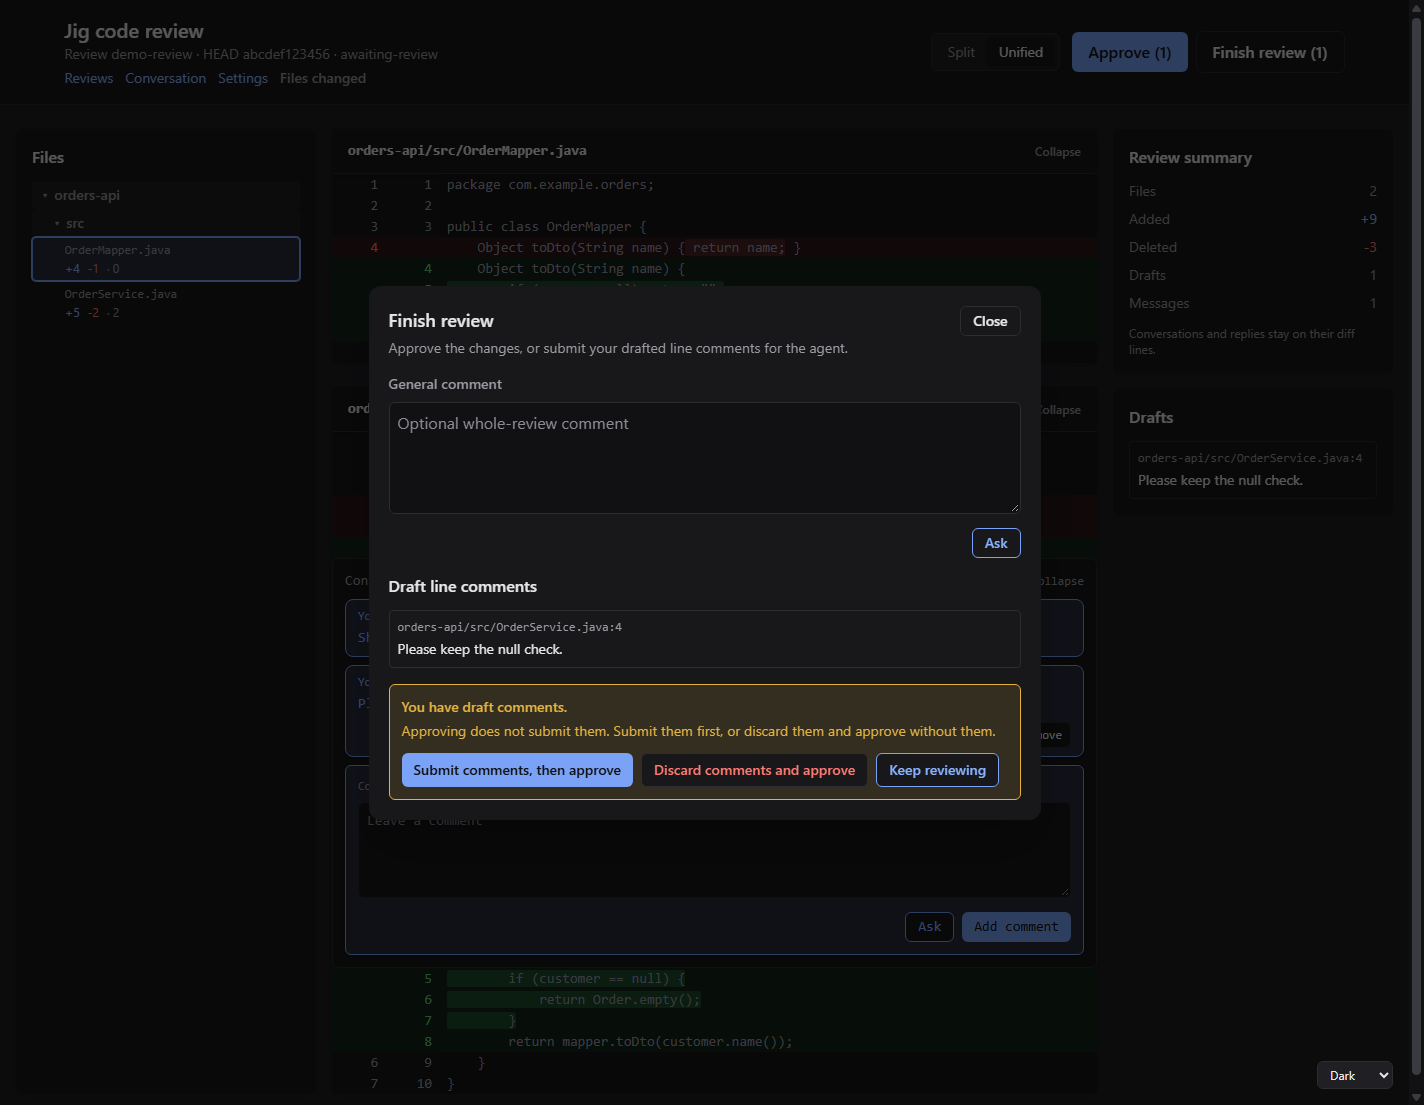
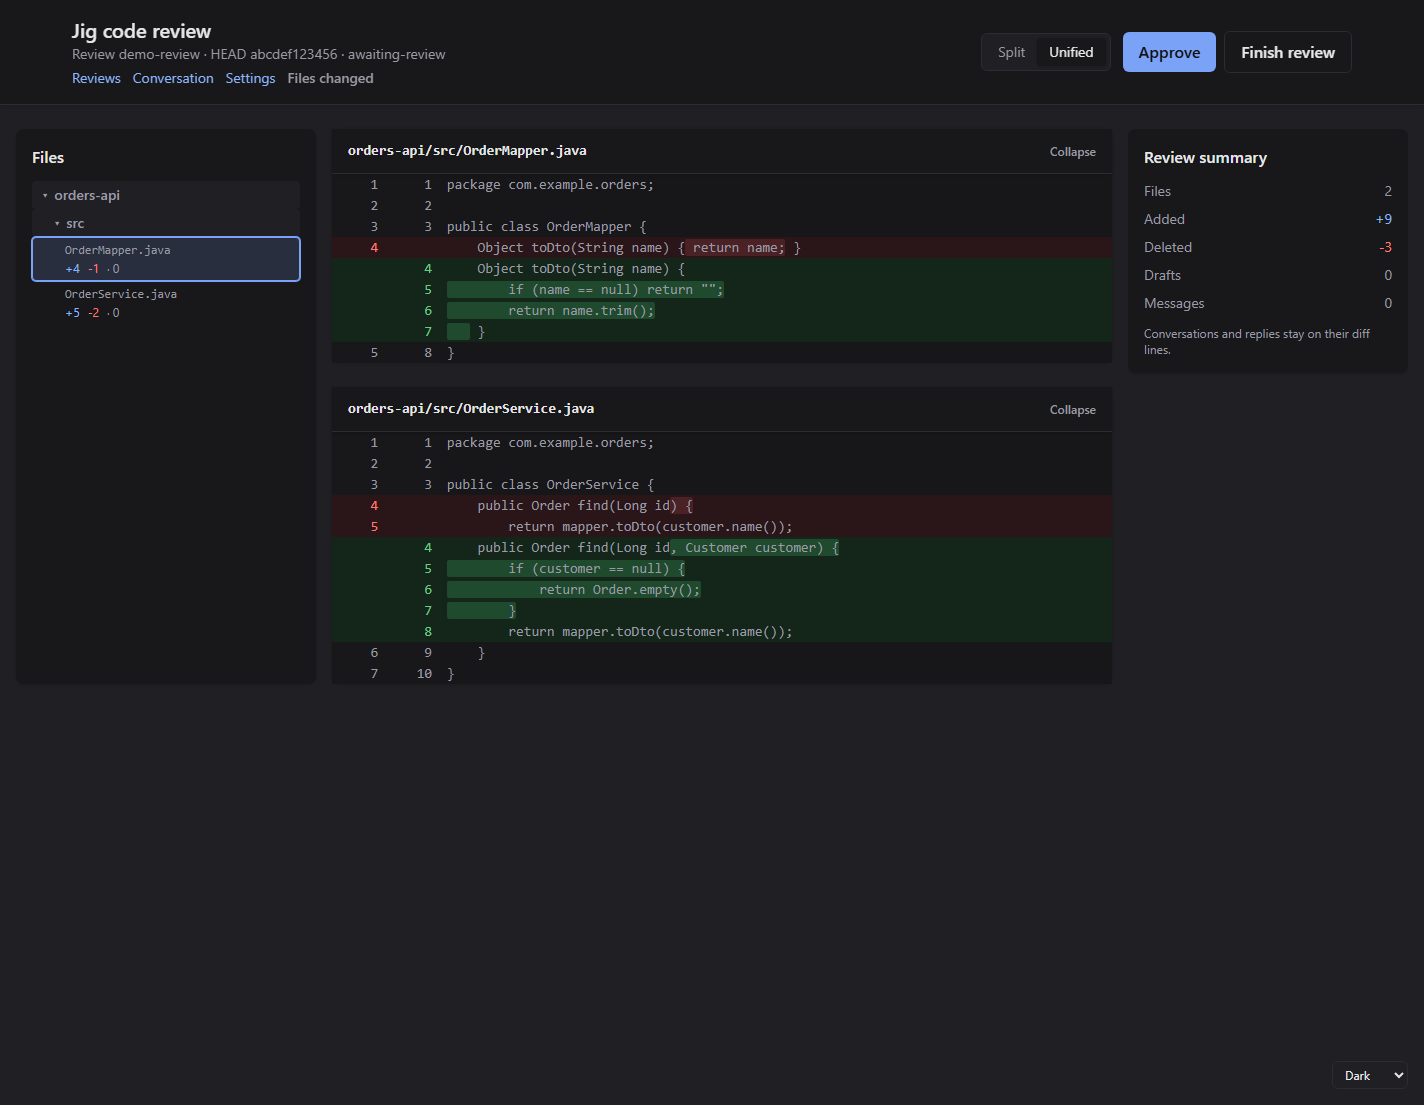
readme: show the clean dark review page with Approve in the header
Render the final page from the dark-mode branch with example diffs and no modal; the caption now describes what the
picture shows.

diff --git a/README.md b/README.md
@@ -29,9 +29,9 @@ sees it. The same rules govern `bash`, pull requests, Jira, databases, APIs, CI 
 - **Browser pages have one palette.** A graphite dark theme and a light one, following the system or a saved choice;
   [Browser theme](docs/browser-theme.md) has the tokens and the contrast numbers.
 
-![A dark browser code review with two Java diff files, a review summary and Approve in the header; example data](docs/img/review-dark.png)
+![A dark browser code review with two Java diff files, a file list, a review summary and Approve in the header; example data](docs/img/review-dark.png)
 
-*A code review in Jig's browser page, in its graphite theme. Changed files and diffs are on the left, the summary stays
+*A code review in Jig's browser page, in its graphite theme. The file list and diffs are on the left, the summary stays
 beside them, and **Approve** is in the header; approval still returns to Pi. This is example data.*
 
 ## Install
